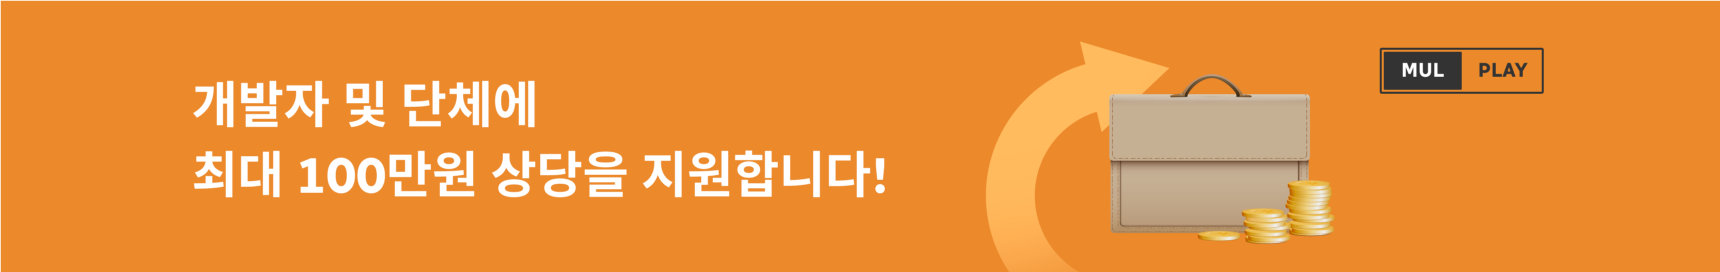
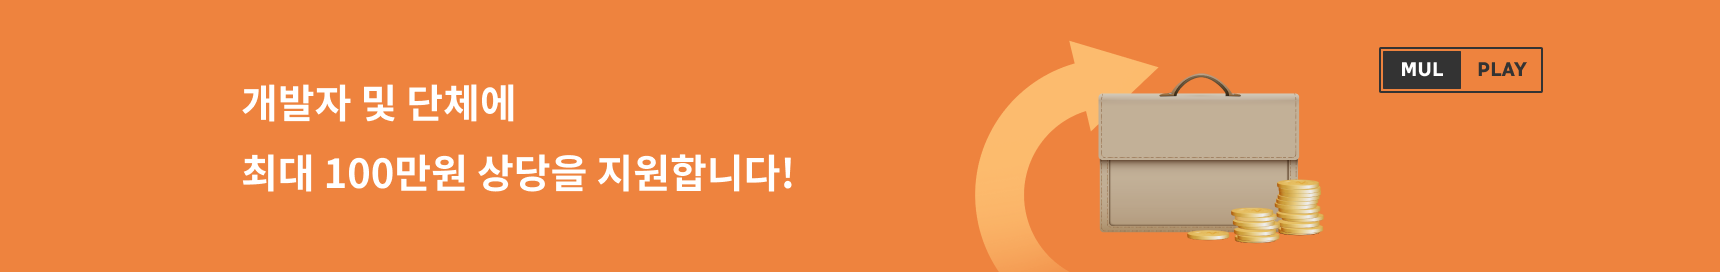
[feat]메인 슬라이드 기능 추가

diff --git a/src/pages/main/Main.js b/src/pages/main/Main.js
@@ -1,70 +1,64 @@
-import React from "react";
 import { Link } from "react-router-dom";
-// import React, { useState } from "react";
+import React, { useState } from "react";
 import Card from "../../components/layout/MainCard";
 import Open from "../../components/layout/MainOpen";
 import Pick from "../../components/layout/MainPick";
-// import Slider from "../../components/layout/Slider";
+import Slider from "../../components/layout/Slider";
 import "../../pages/main/Main.css";
-import banner1 from "../../assets/image/banner1.png";
-import banner2 from "../../assets/image/banner2.png";
-import banner3 from "../../assets/image/banner3.png";
+
 import banner4 from "../../assets/image/banner4.png";
-// import 'slick-carousel/slick/slick.css';
-// import 'slick-carousel/slick/slick-theme.css';
-
-
-const images = [banner1, banner2, banner3, banner4];
-// /export default
+import "slick-carousel/slick/slick.css";
+import "slick-carousel/slick/slick-theme.css";
 
 function Main() {
   return (
     <div className="main_Main">
       <div className="main_slide">
-      {/* <Slider /> */}
-      <img src={banner1} alt="banner1" />
+        <Slider />
+        {/* <img src={banner1} alt="banner1" /> */}
       </div>
-      <h2 className="main_mainTitle">인기 펀딩</h2>
-      <div className="main_AppCard">
-        <Link to='/funding'>
-        <Card />
-        </Link>
-        <Card />
-        <Card />
-        <Card />
-        <Card />
-        <Card />
-        <Card />
-        <Card />
-      </div>
-      <div className="main_line"></div>
-      <h2 className="main_mainTitle">신규 펀딩</h2>
-      <div className="main_AppCard">
-      <Link to='/funding'>
-        <Card />
-      </Link>
-        <Card />
-        <Card />
-        <Card />
-        <Card />
-        <Card />
-        <Card />
-        <Card />
-      </div>
-      <div className="main_banner">
-      <img src={banner4} alt="banner4" />
-      </div>
-      <h2 className="main_mainTitle">오픈 예정</h2>
-      <div className="main_open">
-        <Open />
-      </div>
-      <div className="main_line"></div>
-      <h2 className="main_mainTitle">에디터의 Pick</h2>
-      <div className="main_AppCardPick">
-      <div className="main_pick">
-      </div>
-        <Pick />
-        <Pick />
+
+      <div className="main_container">
+        <h2 className="main_mainTitle">인기 펀딩</h2>
+        <div className="main_AppCard">
+          <Link to="/funding">
+            <Card />
+          </Link>
+          <Card />
+          <Card />
+          <Card />
+          <Card />
+          <Card />
+          <Card />
+          <Card />
+        </div>
+        <div className="main_line"></div>
+        <h2 className="main_mainTitle">신규 펀딩</h2>
+        <div className="main_AppCard">
+          <Link to="/funding">
+            <Card />
+          </Link>
+          <Card />
+          <Card />
+          <Card />
+          <Card />
+          <Card />
+          <Card />
+          <Card />
+        </div>
+        <div className="sub_banner">
+          <img src={banner4} alt="banner4" />
+        </div>
+        <h2 className="main_mainTitle">오픈 예정</h2>
+        <div className="main_open">
+          <Open />
+        </div>
+        <div className="main_line"></div>
+        <h2 className="main_mainTitle">에디터의 Pick</h2>
+        <div className="main_pick">
+          <Pick />
+          <Pick />
+        </div>
       </div>
     </div>
   );

diff --git a/src/pages/main/Main.css b/src/pages/main/Main.css
@@ -1,20 +1,52 @@
 /* .Main {
   width: 1720px;
 } */
-   
+.main_Main {
+  width: 100%;
+  overflow-x: hidden;
+}
+
+ .main_slide {
+  position: relative;
+}
+
+.banner_prev{
+  position: absolute;
+  top: 56%;
+  left: 330px; 
+  width: 36px;
+  height: 36px;
+  background: none;
+  outline: none;
+  border: none;
+}
+.banner_next {
+  position: absolute;
+  top: 56%;
+  left: 395px; 
+  width: 36px;
+  height: 36px;
+  background: none;
+  outline: none;
+  border: none;
+}
+
+.main_container {
+  width: 1720px;
+  margin: 0 auto;
+}
 .main_mainTitle {
   font-size: 33px;
   color: #333333;
-  margin: 50px 20px 20px 90px;
+  margin: 50px 0 20px;
 }
 /* .bannerSilde {
   height: 560px;
   background-color: lightgray;
 } */
 
-.main_banner {
-  width: 1720px;
-  height: 272px;
+.sub_banner {
+  width: 100%;
   background-color: #ee833e;
   margin: 0 auto;
   margin-top: 50px;
@@ -22,7 +54,7 @@
 }
 
 .main_line {
-  width: 1720px;
+  width: 100%;
   border: 1px solid #e2e2e2;
   margin: 0 auto;
   margin-top: 50px;
@@ -30,7 +62,7 @@
 }
 
 .main_AppCard {
-  width: 1720px;
+  width: 100%;
   display: grid;
   flex-flow: row wrap;
   margin-bottom: 20px;
@@ -52,6 +84,7 @@
   margin-bottom: 20px;
   margin-right: 20px;
   display: inline-block;
+  position: relative;
   /* padding: 20px; */
 }
 .main_dday {
@@ -151,7 +184,7 @@
 }
 
 .main_openCard {
-  width: 1720px;
+  width: 100%;
   height: 478px;
   border: solid 1px #c8c8c8;
   border-radius: 20px;
@@ -159,6 +192,7 @@
   overflow: hidden;
   margin: 0 auto;
   margin-bottom: 50px;
+  position: relative;
 }
 
 .main_openImg {
@@ -207,43 +241,50 @@
   cursor: pointer;
 }
 
-.main_AppCardPick {
-  width: 1720px;
-  display: grid;
-  flex-flow: row wrap;
-  margin-bottom: 100px;
-  justify-content: center;
-  align-items: center;
-  align-content: stretch;
-  grid-template-columns: 1fr 1fr 1fr 1fr;
-  margin: 0 auto;
-  /* display:block; */
+/* 에디터 픽 카드 */
+
+.main_pick {
+  width: 100%;
+  display:flex;
+  margin: 0 auto 100px;
+
+}
+
+.main_pickCard:first-child {
+  margin-right: 106px;
+}
+
+.main_pickCard:not(:first-child) {
+  margin-right: 0;
 }
 
 .main_pickCard {
-  width: 845px;
-  height: 600px;
+  width: 800px;
+  height: 530px;
   border: solid 1px #c8c8c8;
   border-radius: 20px;
   box-sizing: border-box;
   overflow: hidden;
   margin-bottom: 100px;
-  margin-right: 20px;
   display: block;
+
 }
 
-.main_pickCard:first-child {
-  margin-right: 20px;
-}
 
 .main_openImg {
   display: inline-block;
+}
+.main_pickImg {
+  width: 845px;
+  height: 400px;
 }
 
 .main_pickImg > img {
   margin: 0;
   padding: 0;
-  height: 478px;
+  width: 100%;
+  height: 100%;
+  object-fit: cover;
   background-color: #888888;
   display: block;
 }

diff --git a/src/components/layout/Slider.js b/src/components/layout/Slider.js
@@ -1,31 +1,58 @@
 import React, { Component } from "react";
 import Slider from "react-slick";
-import 'slick-carousel/slick/slick.css';
-import 'slick-carousel/slick/slick-theme.css';
+import "slick-carousel/slick/slick.css";
+import "slick-carousel/slick/slick-theme.css";
+import banner1 from "../../assets/image/banner1.png";
+import banner2 from "../../assets/image/banner2.png";
+import banner3 from "../../assets/image/banner3.png";
+import prev from "../../assets/image/prev.png";
+import next from "../../assets/image/next.png";
 
 export default class SimpleSlider extends Component {
+  // 이전 버튼 클릭 핸들러
+  handlePrev = () => {
+    this.slider.slickPrev();
+  };
+
+  // 다음 버튼 클릭 핸들러
+  handleNext = () => {
+    this.slider.slickNext();
+  };
+
   render() {
     const settings = {
       dots: true,
       infinite: true,
       speed: 500,
       slidesToShow: 1,
-      slidesToScroll: 1
+      slidesToScroll: 1,
+      autoplay: true, // autoplay 속성 추가
+      autoplaySpeed: 5000, // 5초(5000 밀리초)마다 전환
     };
+
     return (
       <div>
-        <h2> Single Item</h2>
-        <Slider {...settings}>
+        <Slider ref={(c) => (this.slider = c)} {...settings}>
           <div>
-            <h3>1</h3>
+            <img src={banner1} alt="Banner 1" />
           </div>
           <div>
-            <h3>2</h3>
+            <img src={banner2} alt="Banner 2" />
           </div>
           <div>
-            <h3>3</h3>
+            <img src={banner3} alt="Banner 3" />
           </div>
         </Slider>
+
+        {/* 이전 버튼 */}
+        <button onClick={this.handlePrev} className="banner_prev">
+          <img src={prev} alt="이전" />
+        </button>
+
+        {/* 다음 버튼 */}
+        <button onClick={this.handleNext} className="banner_next">
+          <img src={next} alt="다음" />
+        </button>
       </div>
     );
   }
